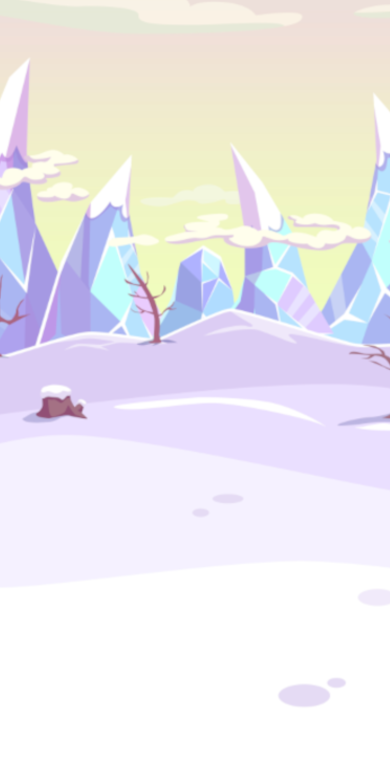
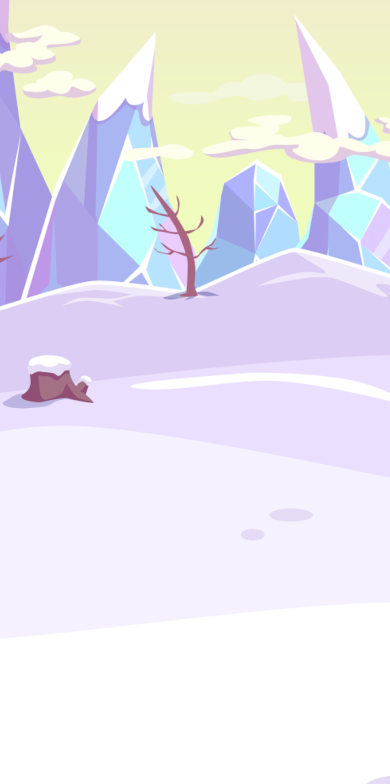
created items for the store

diff --git a/src/components/Shop/Shop.jsx b/src/components/Shop/Shop.jsx
@@ -1,6 +1,7 @@
 import './Shop.css'
+import * as React from 'react';
 import { Nav } from '../../index.js'
-import React, { useEffect, useState } from 'react';
+// import React, { useEffect, useState } from 'react';
 import { useParams } from 'react-router-dom';
 import { useDispatch, useSelector } from 'react-redux';
 import Button from '@mui/material/Button';
@@ -16,32 +17,63 @@ import DialogActions from '@mui/material/DialogActions';
 import DialogContent from '@mui/material/DialogContent';
 import DialogContentText from '@mui/material/DialogContentText';
 import DialogTitle from '@mui/material/DialogTitle';
+import CardMedia from '@mui/material/CardMedia';
 
 
 export default function Shop() {
     return (
         <div className="shopBackground">
             <div className="withinShop">
-                {/* <center> */}
 
-                    <div>Shop</div>
-                {/* </center> */}
 
-                {/* <Card sx={{
-                    // width: 300,
-                    opacity: 0.95,
-                    m: 5,
-                    mt: 25
-                    // backgroundColor: 'transparent',
-                }}>
-                    <CardContent sx={{ color: 'black', backgroundColor: 'white' }}>
+                <Box
+                    sx={{
+                        width: 300,
+                        // height: 100,
+                        opacity: 0.95,
+                        m: 5,
+                        backgroundColor: 'white',
+                        // mt: 25
+                        // backgroundColor: 'transparent',
+                    }}
+                    borderRadius={5}
+                >
+                    <div className="header">Shop</div>
 
-                        <center>
-                            <h2>New landscape</h2>
-                            <h2>Double egg rarity chance</h2>
-                        </center>
-                    </CardContent>
-                </Card> */}
+                    <div className="shopContents">
+                        <div className="shopImagesRow1">
+                            <img border="2px" className="cardImage" src="images/backgrounds/winter-landscape.png"></img>
+                            <img border="2px" className="cardImage eggImage" src="images/eggs/egg-11-1.png"></img>
+                        </div>
+
+                        <div className="shopDescriptionRow1">
+                            <h5>Winter Flock Page</h5>
+                            <h5>x2 Rarity Chance</h5>
+                        </div>
+                        <div className="shopDescriptionRow1">
+                            <h5>100g</h5>
+                            <h5>20g</h5>
+                        </div>
+                        <div className="shopDescriptionRow1">
+                            <Button
+                                variant="contained"
+                                type="submit"
+                                name="submit"
+                                sx={{ backgroundColor: "black", opacity: .9 }}
+                            >
+                                Buy
+                            </Button>
+                            <Button
+                                variant="contained"
+                                type="submit"
+                                name="submit"
+                                sx={{ backgroundColor: "black", opacity: .9 }}
+                            >
+                                Buy
+                            </Button>
+                        </div>
+                    </div>
+                </Box>
 
                 <div className="shopPageSelected">
                     <Nav />

diff --git a/src/components/Shop/Shop.css b/src/components/Shop/Shop.css
@@ -21,5 +21,33 @@
 
 .withinShop {
     text-align: center;
-    padding-top: 85px;
+    padding-top: 55px;
+}
+.shopContents {
+    display: flex;
+    flex-direction: column;
+    padding: 10px;
+}
+
+.shopDescriptionRow1 {
+    display: flex;
+    flex-wrap: row;
+    justify-content: space-around;
+}
+
+.shopImagesRow1 {
+    display: flex;
+    flex-wrap: row;
+}
+
+.cardImage {
+    height: 150px;
+    width: 50%;
+    padding: 20px;
+    padding-bottom: 0px;
+}
+
+.eggImage {
+    height: 120px;
+    padding-bottom: 30px;
 }

diff --git a/src/components/FlockPage/FlockPage.css b/src/components/FlockPage/FlockPage.css
@@ -1,5 +1,5 @@
 .flockPage {
-    background-image: url('../../../public/images/backgrounds/winter-landscapev3.png');
+    background-image: url('../../../public/images/backgrounds/winter-landscape.png');
     top: 0;
     left: 0;
     position:fixed;
